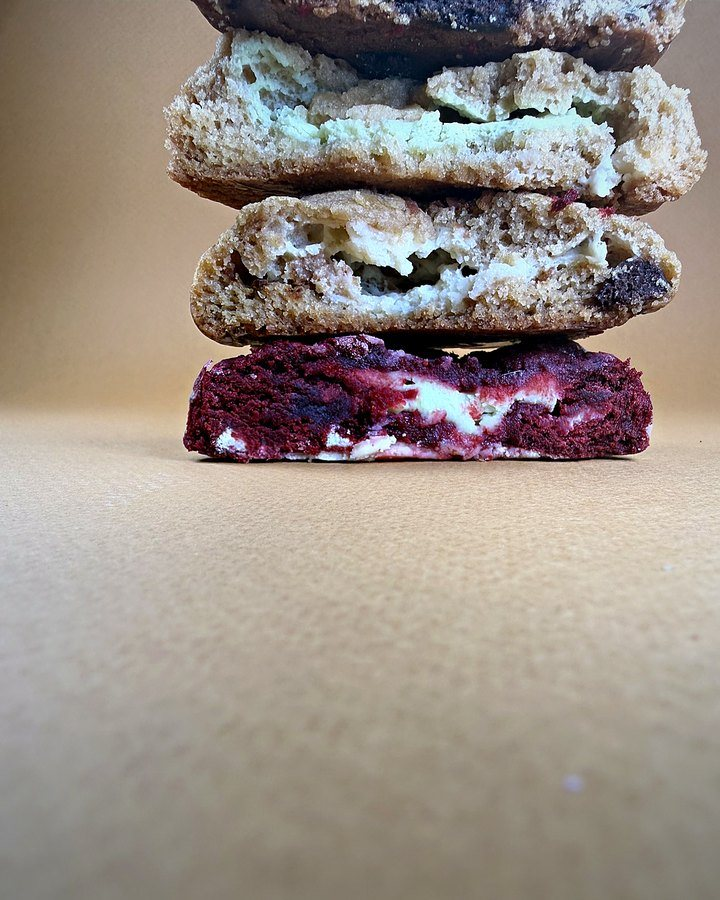
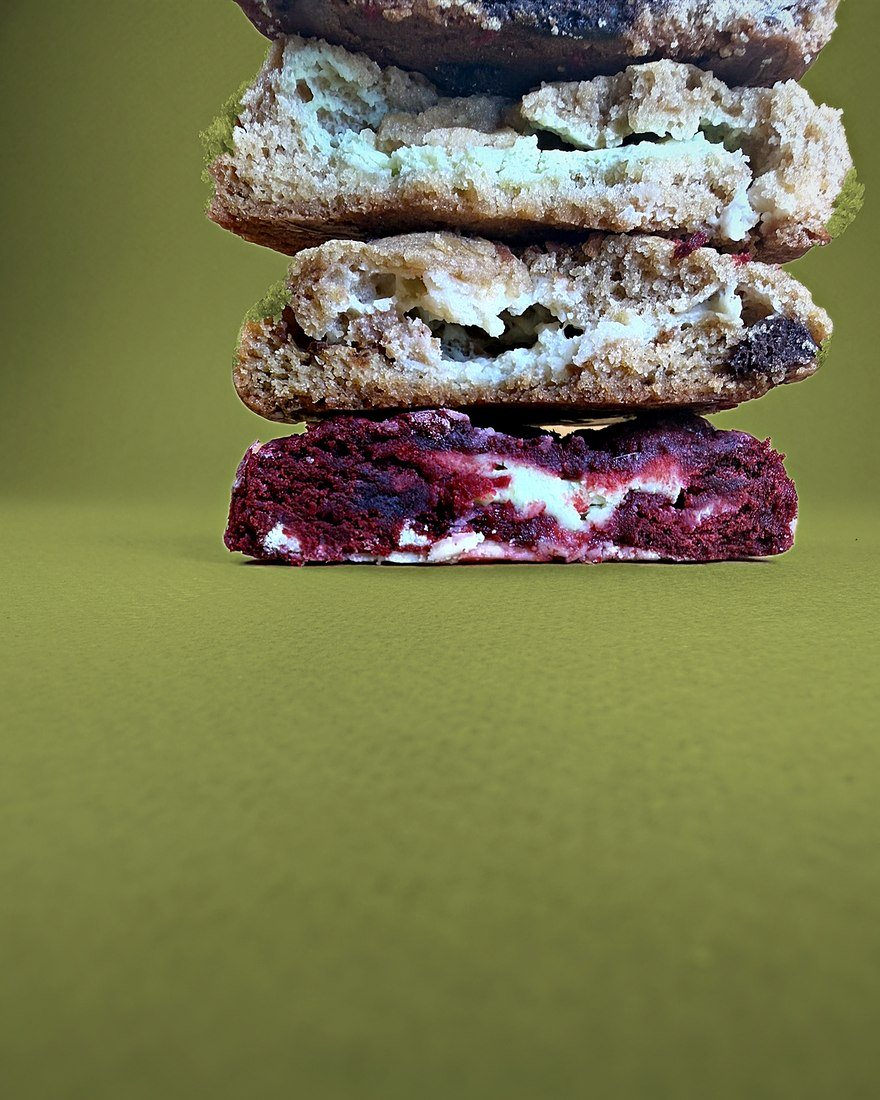
Mary Cookies: fotos reales centradas y con fondo verde olivo para integrarlas con las de IA
Claude-Session: https://claude.ai/code/session_015dL2sNW5R9ZGNvpo3DgFWQ

diff --git a/marycookies/index.html b/marycookies/index.html
@@ -183,7 +183,7 @@ header.nav.scrolled{border-color:var(--line)}
 /* lookbook */
 .strip{display:flex;gap:14px;overflow-x:auto;scroll-snap-type:x mandatory;padding:4px 2px 14px;scrollbar-width:thin}
 .look{flex:0 0 min(300px,72%);display:block;text-decoration:none;border:0;padding:0;background:none;cursor:zoom-in;font:inherit;scroll-snap-align:start;border-radius:22px;overflow:hidden;position:relative;cursor:pointer;box-shadow:var(--shadow)}
-.look img{width:100%;aspect-ratio:4/5;object-fit:cover;transition:transform .5s ease}.look:hover img{transform:scale(1.04)}.look:not(.real){flex-basis:min(220px,55%);opacity:.92}
+.look img{width:100%;aspect-ratio:4/5;object-fit:cover;transition:transform .5s ease}.look:hover img{transform:scale(1.04)}
 .look span{position:absolute;left:12px;bottom:12px;background:rgba(251,248,239,.92);border-radius:999px;padding:6px 12px;font-weight:800;font-size:.82rem;color:var(--olive-ink)}
 .strip-ctrl{display:flex;gap:8px}
 .round{width:42px;height:42px;border-radius:50%;border:0;background:var(--cream);color:var(--olive-ink);font-size:1.1rem;font-weight:800;cursor:pointer}
@@ -627,7 +627,7 @@ const CONFIG = {
   leadDays: 3,
   prices: { gift: null, box6: null, box12: null }   // e.g. 28 → $28. null → "Price coming soon"
 };
-const AVAIL = new Set(["box-real", "dark-arequipe", "dark-brownie", "dark-coconut", "dark-hazelnut", "dark-lemon", "dark-pie-arequipe", "dark-pie-coconut", "dark-pie-hazelnut", "dark-pie-lemon", "dark-redvelvet", "giftbox", "gpt-01", "gpt-02", "gpt-04", "gpt-05", "gpt-07", "gpt-08", "hero", "lk-01", "lk-02", "lk-03", "lk-04", "lk-05", "lk-06", "lk-07", "lk-08", "lk-09", "lk-10", "marble-arequipe", "marble-brownie", "marble-coconut", "marble-guava", "marble-hazelnut", "marble-hazelnut-whole", "marble-lemon", "marble-pie-coconut", "marble-redvelvet", "olive-arequipe", "olive-brownie", "olive-coconut", "olive-guava", "olive-guava-whole", "olive-hazelnut", "olive-lemon", "olive-pie-arequipe", "olive-pie-coconut", "olive-pie-hazelnut", "olive-pie-lemon", "olive-redvelvet", "real-assort", "real-box-branches", "real-box-closed", "real-box-open", "real-brownie", "real-brownie-2", "real-coconut", "real-gold", "real-lemon", "real-lemon-2", "real-pie-coconut", "real-pie-coconut-2", "real-pie-coconut-3", "real-plate", "real-redvelvet", "real-redvelvet-2", "real-redvelvet-3", "real-rv-tower", "real-sleeves", "real-tower", "real-tower-2", "real-white-box", "rustic-arequipe", "rustic-brownie", "rustic-coconut", "rustic-guava", "rustic-hazelnut", "rustic-lemon", "rustic-mix", "rustic-pie-arequipe", "rustic-pie-coconut", "rustic-pie-hazelnut", "rustic-pie-lemon", "rustic-redvelvet", "splash", "torre-lazo"]);
+const AVAIL = new Set(["box-real", "dark-arequipe", "dark-brownie", "dark-coconut", "dark-hazelnut", "dark-lemon", "dark-pie-arequipe", "dark-pie-coconut", "dark-pie-hazelnut", "dark-pie-lemon", "dark-redvelvet", "giftbox", "gpt-01", "gpt-02", "gpt-04", "gpt-05", "gpt-07", "gpt-08", "hero", "lk-01", "lk-02", "lk-03", "lk-04", "lk-05", "lk-06", "lk-07", "lk-08", "lk-09", "lk-10", "marble-arequipe", "marble-brownie", "marble-coconut", "marble-guava", "marble-hazelnut", "marble-hazelnut-whole", "marble-lemon", "marble-pie-coconut", "marble-redvelvet", "olive-arequipe", "olive-brownie", "olive-coconut", "olive-guava", "olive-guava-whole", "olive-hazelnut", "olive-lemon", "olive-pie-arequipe", "olive-pie-coconut", "olive-pie-hazelnut", "olive-pie-lemon", "olive-redvelvet", "real-assort", "real-box-branches", "real-box-closed", "real-box-open", "real-brownie", "real-brownie-2", "real-coconut", "real-gold", "real-lemon", "real-lemon-2", "real-pie-coconut", "real-pie-coconut-2", "real-plate", "real-redvelvet", "real-redvelvet-2", "real-redvelvet-3", "real-rv-tower", "real-sleeves", "real-tower", "real-tower-2", "real-white-box", "rustic-arequipe", "rustic-brownie", "rustic-coconut", "rustic-guava", "rustic-hazelnut", "rustic-lemon", "rustic-mix", "rustic-pie-arequipe", "rustic-pie-coconut", "rustic-pie-hazelnut", "rustic-pie-lemon", "rustic-redvelvet", "splash", "torre-lazo"]);
 const STYLES = ['real','olive','dark','marble','rustic'];
 const imgFor = (key, style) => { const order = [style, ...STYLES.filter(s => s !== style)]; for(const s of order){ if(AVAIL.has(`${s}-${key}`)) return `img/${s}-${key}.jpg`; } return 'img/hero.jpg'; };
 const imgsOf = key => [2,3].filter(n => AVAIL.has(`real-${key}-${n}`)).map(n => `img/real-${key}-${n}.jpg`).reduce((a,x)=>{a.splice(1,0,x);return a;}, STYLES.filter(s => AVAIL.has(`${s}-${key}`)).map(s => `img/${s}-${key}.jpg`).concat(AVAIL.has(`olive-${key}-whole`)?[`img/olive-${key}-whole.jpg`]:[]).concat(AVAIL.has(`marble-${key}-whole`)?[`img/marble-${key}-whole.jpg`]:[]));
@@ -886,12 +886,14 @@ function renderPies(){
 }
 function renderStrip(){
   const items = [['marble','lemon'],['rustic','pie-coconut'],['marble','redvelvet'],['rustic','arequipe'],['marble','guava'],['rustic','pie-hazelnut'],['marble','hazelnut-whole'],['rustic','brownie'],['olive','guava-whole'],['marble','coconut']];
-  const REAL = [['real-tower','',{en:'All four flavors',es:'Los cuatro sabores'}],['real-redvelvet-2','redvelvet'],['real-pie-coconut-3','pie-coconut'],['real-brownie-2','brownie'],['real-rv-tower','redvelvet'],['real-lemon-2','lemon'],['real-sleeves','',{en:'Wrapped and sealed',es:'Empacadas y selladas'}],['real-pie-coconut-2','pie-coconut'],['real-box-closed','',{en:'Holiday Gift Box',es:'Caja de regalo navideña'}],['real-gold','',{en:'Gold gift box',es:'Caja dorada'}],['real-plate','',{en:'A plate to share',es:'Un plato para compartir'}],['real-white-box','',{en:'The little white box',es:'La cajita blanca'}],['real-tower-2','',{en:'All four flavors',es:'Los cuatro sabores'}]];
-  const AI = [['lk-01','redvelvet'],['torre-lazo',''],['lk-02','pie-coconut'],['lk-04','brownie'],['gpt-07',''],['lk-05','lemon'],['lk-06','redvelvet'],['lk-03','pie-coconut'],['gpt-05',''],['lk-07','pie-coconut'],['lk-10','pie-coconut'],['lk-09','redvelvet']];
+  const REAL = [['real-tower-2','',{en:'All four flavors',es:'Los cuatro sabores'}],['real-redvelvet-2','redvelvet'],['real-pie-coconut','pie-coconut'],['real-brownie-2','brownie'],['real-rv-tower','redvelvet'],['real-lemon-2','lemon'],['real-sleeves','',{en:'Wrapped and sealed',es:'Empacadas y selladas'}],['real-pie-coconut-2','pie-coconut'],['real-box-closed','',{en:'Holiday Gift Box',es:'Caja de regalo navideña'}],['real-coconut','coconut'],['real-plate','',{en:'A plate to share',es:'Un plato para compartir'}],['real-tower','',{en:'Stacked high',es:'Bien rellenas'}]];
+  const AI = [['lk-01','redvelvet'],['torre-lazo','',{en:'All four flavors',es:'Los cuatro sabores'}],['lk-02','pie-coconut'],['lk-04','brownie'],['gpt-07','',{en:'Gold gift box',es:'Caja dorada'}],['lk-05','lemon'],['lk-06','redvelvet'],['lk-03','pie-coconut'],['gpt-05','',{en:'Holiday Gift Box',es:'Caja de regalo navideña'}],['lk-07','pie-coconut']];
   const nameOf = (id, lbl) => { const o = id && (FLAVORS.find(f => f.id === id) || PIES.find(p => p.id === id)); return o ? (id.startsWith('pie') ? 'Cookie Pie · ' + L(o.name) : L(o.name)) : (lbl ? L(lbl) : 'Made By Mary H'); };
-  const all = [...REAL.map(x => [...x, 1]), ...AI.map(x => [x[0], x[1], x[2], 0])];
-  $('#strip').innerHTML = all.map(([n,id,lbl,real], i) => { const nm = nameOf(id, lbl);
-    return `<button type="button" class="look${real?' real':''}" data-lb-strip="${i}" data-open-id="${id||''}"><img src="img/${n}.jpg" alt="${nm}" loading="lazy">${real ? `<span>${nm}</span>` : ''}</button>`; }).join('');
+  // weave: two real photos, then one styled photo, so the set reads as one collection
+  const all = []; let r = 0, a = 0;
+  while(r < REAL.length || a < AI.length){ for(let k = 0; k < 2 && r < REAL.length; k++) all.push(REAL[r++]); if(a < AI.length) all.push(AI[a++]); }
+  $('#strip').innerHTML = all.map(([n,id,lbl], i) => { const nm = nameOf(id, lbl);
+    return `<button type="button" class="look" data-lb-strip="${i}" data-open-id="${id||''}"><img src="img/${n}.jpg" alt="${nm}" loading="lazy"><span>${nm}</span></button>`; }).join('');
 }
 function renderWholesale(){
   $('#wsType').innerHTML = WS_TYPES.map(w => `<button type="button" class="chip" data-ws="${w.id}" aria-pressed="${w.id===ws.type}">${L(w)}</button>`).join('');
